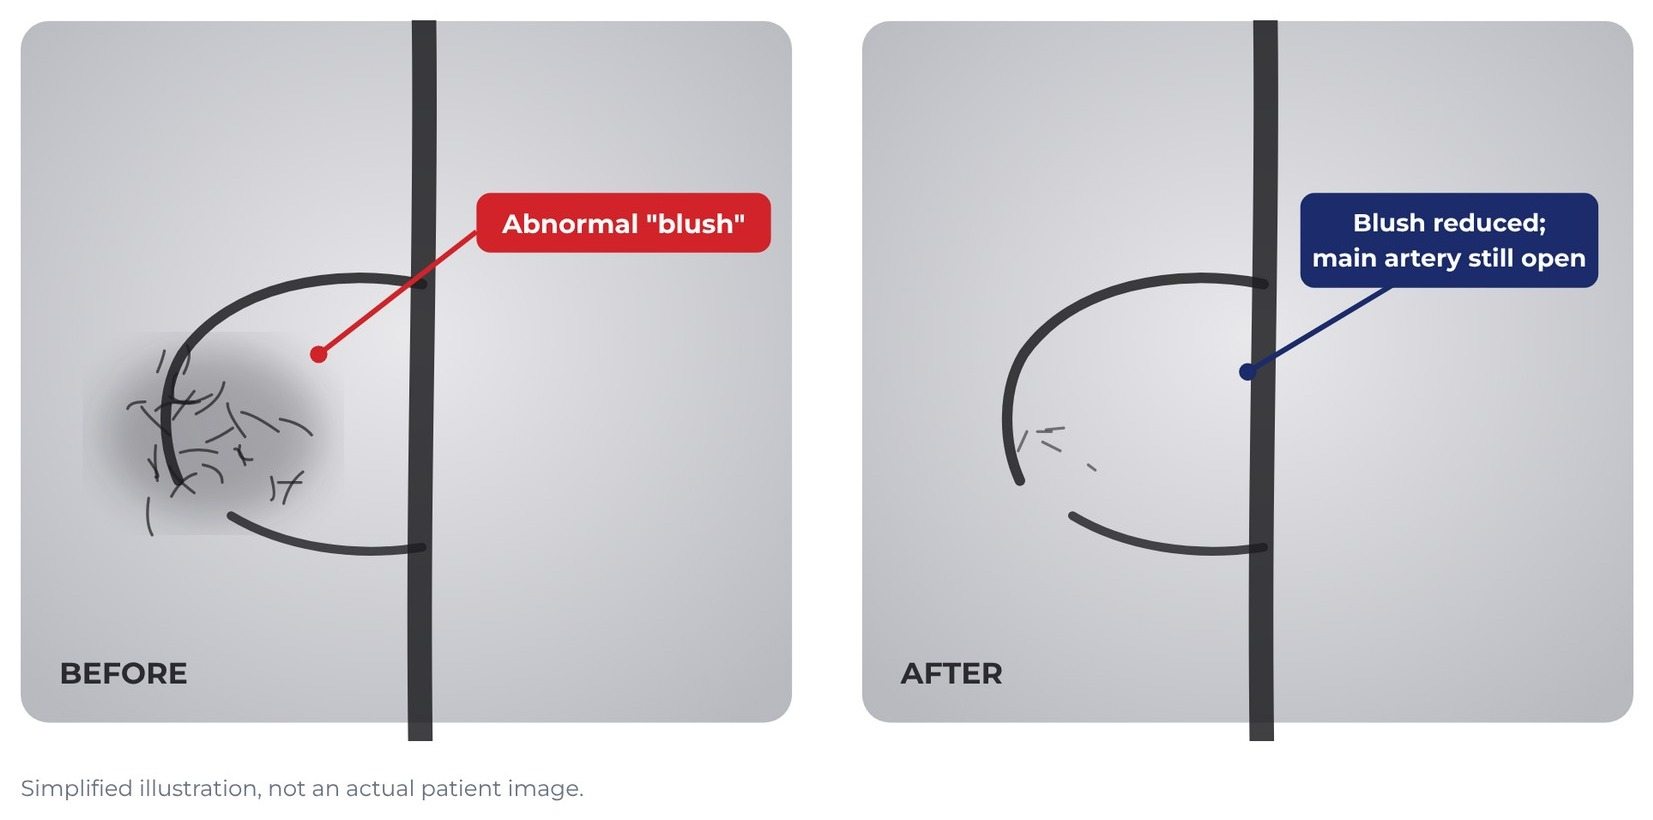
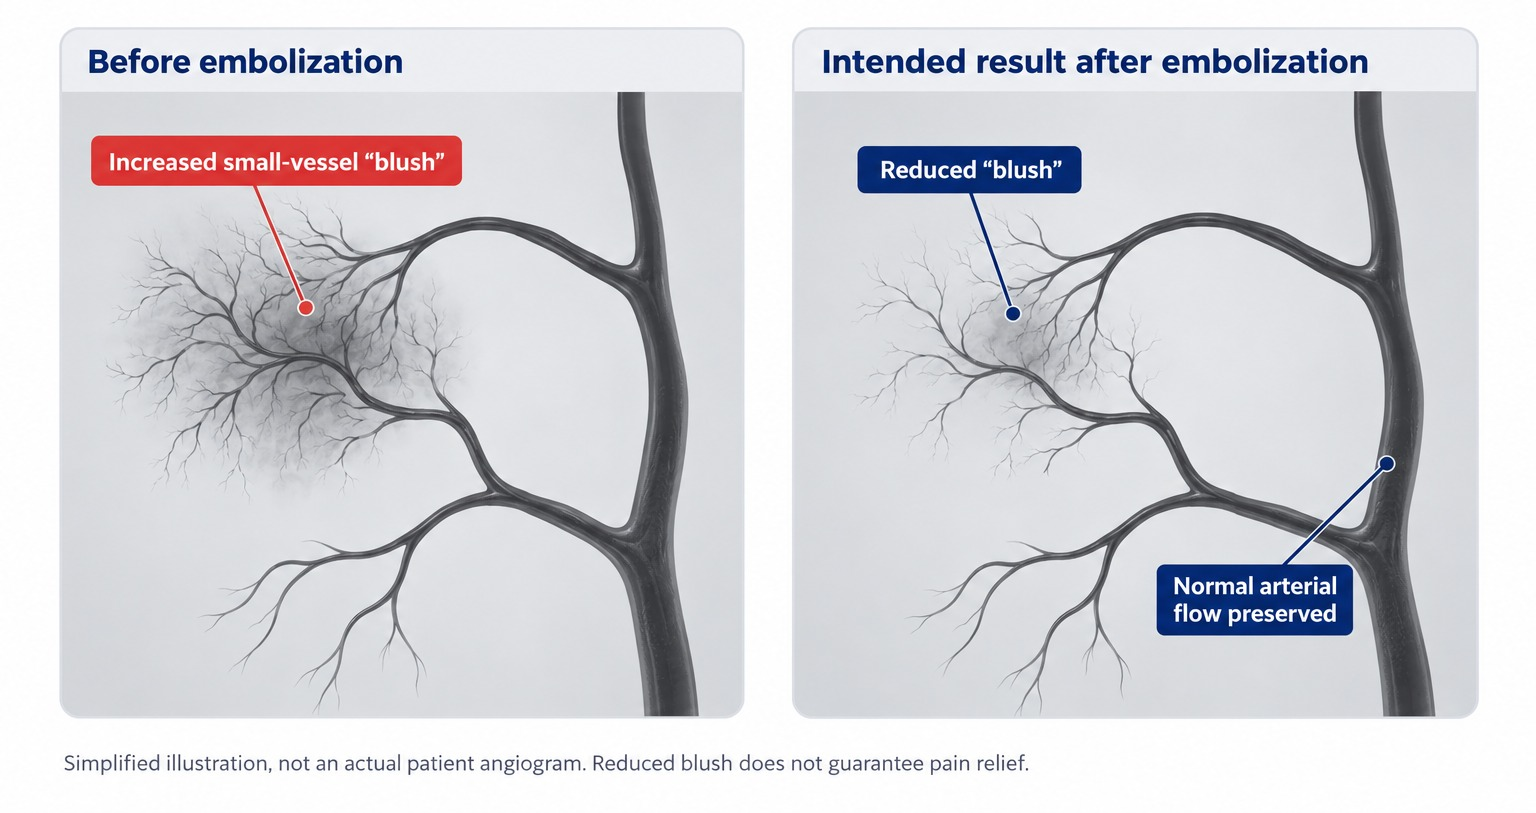
Flip J15a: new angiogram illustration; align talking point
Claude-Session: https://claude.ai/code/session_011FeJdRfmDCgTZcMtNMgwbg

diff --git a/js/templates.js b/js/templates.js
@@ -787,7 +787,7 @@ window.AJPVC_TEMPLATES = [
     "label": "J15a · What the Angiogram Shows (patient side)",
     "w": 1056,
     "h": 816,
-    "html": "<div style=\"width: 1056px; height: 816px; box-sizing: border-box; background: #FFFEFB; color: #1B2440; font-family: 'Public Sans', sans-serif; display: flex; flex-direction: column; padding: 34px 44px 26px; gap: 20px\">\n<div style=\"display: flex; justify-content: space-between; align-items: flex-end; gap: 24px; border-bottom: 5px solid #C8231E; padding-bottom: 14px\">\n<div style=\"display: flex; flex-direction: column; gap: 4px\"><p style=\"margin: 0; font-family: 'Montserrat', sans-serif; font-weight: 700; font-size: 15px; letter-spacing: 3px; text-transform: uppercase; color: #C8231E\">Joint pain</p>\n<h1 style=\"margin: 0; font-family: 'Montserrat', sans-serif; font-weight: 800; font-size: 44px; line-height: 1.05; color: #16306E\">What the Angiogram Shows</h1></div>\n<div style=\"display: flex; align-items: center; gap: 14px\"><img src=\"assets/logo-hvlc.png\" alt=\"Heart Vascular &amp; Leg Center logo\" style=\"height: 34px; width: 78px; object-fit: contain; object-position: left center\"><span style=\"width: 1px; height: 27px; background: #E2DED4\"></span><img src=\"assets/logo-long-nodivision.png\" alt=\"Advanced Joint Pain &amp; Vascular Center logo\" style=\"height: 34px; width: 129px; object-fit: contain; object-position: left center\"></div></div>\n<main style=\"flex: 1; min-height: 0; display: flex; flex-direction: column; gap: 16px\"><div style=\"flex: 1; min-height: 0; display: flex; flex-direction: column; gap: 10px\"><div style=\"flex: 1; min-height: 0; min-width: 0; background: #FFFFFF; border-radius: 18px; overflow: hidden; display: flex\"><img src=\"assets/book-angiogram.jpg\" alt=\"Side-by-side simplified X-ray drawings: before, a cloudy abnormal blush of small vessels beside a branch artery; after, the blush is reduced and the main artery is still open.\" style=\"width: 100%; height: 100%; object-fit: contain; object-position: 50% 50%; display: block\"></div></div><div style=\"display: flex; gap: 24px\"><div style=\"flex: 1; min-width: 0; display: flex; gap: 12px; align-items: flex-start; border-top: 4px solid #C8231E; padding-top: 12px\"><p style=\"margin: 0; font-size: 22px; line-height: 1.32; color: #1B2440\">Dye makes the knee arteries visible on X-ray.</p></div><div style=\"flex: 1; min-width: 0; display: flex; gap: 12px; align-items: flex-start; border-top: 4px solid #C8231E; padding-top: 12px\"><p style=\"margin: 0; font-size: 22px; line-height: 1.32; color: #1B2440\">Abnormal vessels show up as a cloudy “blush.”</p></div><div style=\"flex: 1; min-width: 0; display: flex; gap: 12px; align-items: flex-start; border-top: 4px solid #C8231E; padding-top: 12px\"><p style=\"margin: 0; font-size: 22px; line-height: 1.32; color: #1B2440\">After treatment the blush fades; main artery stays open.</p></div></div></main></div>"
+    "html": "<div style=\"width: 1056px; height: 816px; box-sizing: border-box; background: #FFFEFB; color: #1B2440; font-family: 'Public Sans', sans-serif; display: flex; flex-direction: column; padding: 34px 44px 26px; gap: 20px\">\n<div style=\"display: flex; justify-content: space-between; align-items: flex-end; gap: 24px; border-bottom: 5px solid #C8231E; padding-bottom: 14px\">\n<div style=\"display: flex; flex-direction: column; gap: 4px\"><p style=\"margin: 0; font-family: 'Montserrat', sans-serif; font-weight: 700; font-size: 15px; letter-spacing: 3px; text-transform: uppercase; color: #C8231E\">Joint pain</p>\n<h1 style=\"margin: 0; font-family: 'Montserrat', sans-serif; font-weight: 800; font-size: 44px; line-height: 1.05; color: #16306E\">What the Angiogram Shows</h1></div>\n<div style=\"display: flex; align-items: center; gap: 14px\"><img src=\"assets/logo-hvlc.png\" alt=\"Heart Vascular &amp; Leg Center logo\" style=\"height: 34px; width: 78px; object-fit: contain; object-position: left center\"><span style=\"width: 1px; height: 27px; background: #E2DED4\"></span><img src=\"assets/logo-long-nodivision.png\" alt=\"Advanced Joint Pain &amp; Vascular Center logo\" style=\"height: 34px; width: 129px; object-fit: contain; object-position: left center\"></div></div>\n<main style=\"flex: 1; min-height: 0; display: flex; flex-direction: column; gap: 16px\"><div style=\"flex: 1; min-height: 0; display: flex; flex-direction: column; gap: 10px\"><div style=\"flex: 1; min-height: 0; min-width: 0; background: #FFFFFF; border-radius: 18px; overflow: hidden; display: flex\"><img src=\"assets/book-angiogram.jpg\" alt=\"Two simplified angiogram drawings: before embolization, a cloudy small-vessel blush; the intended result after embolization, a reduced blush with normal flow preserved in the main artery\" style=\"width: 100%; height: 100%; object-fit: contain; object-position: 50% 50%; display: block\"></div></div><div style=\"display: flex; gap: 24px\"><div style=\"flex: 1; min-width: 0; display: flex; gap: 12px; align-items: flex-start; border-top: 4px solid #C8231E; padding-top: 12px\"><p style=\"margin: 0; font-size: 22px; line-height: 1.32; color: #1B2440\">Dye makes the knee arteries visible on X-ray.</p></div><div style=\"flex: 1; min-width: 0; display: flex; gap: 12px; align-items: flex-start; border-top: 4px solid #C8231E; padding-top: 12px\"><p style=\"margin: 0; font-size: 22px; line-height: 1.32; color: #1B2440\">Abnormal vessels show up as a cloudy “blush.”</p></div><div style=\"flex: 1; min-width: 0; display: flex; gap: 12px; align-items: flex-start; border-top: 4px solid #C8231E; padding-top: 12px\"><p style=\"margin: 0; font-size: 22px; line-height: 1.32; color: #1B2440\">The goal: less blush, with the main artery left open.</p></div></div></main></div>"
    },
    {
     "label": "J15b · What the Angiogram Shows (provider side)",

diff --git a/source/FlipJ15Angiogram.dc.html b/source/FlipJ15Angiogram.dc.html
@@ -18,7 +18,7 @@ body{margin:0}
 <div style="display: flex; flex-direction: column; gap: 4px"><p style="margin: 0; font-family: 'Montserrat', sans-serif; font-weight: 700; font-size: 15px; letter-spacing: 3px; text-transform: uppercase; color: #C8231E">Joint pain</p>
 <h1 style="margin: 0; font-family: 'Montserrat', sans-serif; font-weight: 800; font-size: 44px; line-height: 1.05; color: #16306E">What the Angiogram Shows</h1></div>
 <div style="display: flex; align-items: center; gap: 14px"><img src="/_blob/1e4ce51a5c3cb793b6317890e43e495e" alt="Heart Vascular &amp; Leg Center logo" style="height: 34px; width: 78px; object-fit: contain; object-position: left center"><span style="width: 1px; height: 27px; background: #E2DED4"></span><img src="/_blob/48c0202744b17fe1f033a36586de7a92" alt="Advanced Joint Pain &amp; Vascular Center logo" style="height: 34px; width: 129px; object-fit: contain; object-position: left center"></div></div>
-<main style="flex: 1; min-height: 0; display: flex; flex-direction: column; gap: 16px"><div style="flex: 1; min-height: 0; display: flex; flex-direction: column; gap: 10px"><div style="flex: 1; min-height: 0; min-width: 0; background: #FFFFFF; border-radius: 18px; overflow: hidden; display: flex"><img src="/_blob/5ae0c5e05f1ebb86b8f57816ecd38491" alt="Side-by-side simplified X-ray drawings: before, a cloudy abnormal blush of small vessels beside a branch artery; after, the blush is reduced and the main artery is still open." style="width: 100%; height: 100%; object-fit: contain; object-position: 50% 50%; display: block"></div></div><div style="display: flex; gap: 24px"><div style="flex: 1; min-width: 0; display: flex; gap: 12px; align-items: flex-start; border-top: 4px solid #C8231E; padding-top: 12px"><p style="margin: 0; font-size: 22px; line-height: 1.32; color: #1B2440">Dye makes the knee arteries visible on X-ray.</p></div><div style="flex: 1; min-width: 0; display: flex; gap: 12px; align-items: flex-start; border-top: 4px solid #C8231E; padding-top: 12px"><p style="margin: 0; font-size: 22px; line-height: 1.32; color: #1B2440">Abnormal vessels show up as a cloudy “blush.”</p></div><div style="flex: 1; min-width: 0; display: flex; gap: 12px; align-items: flex-start; border-top: 4px solid #C8231E; padding-top: 12px"><p style="margin: 0; font-size: 22px; line-height: 1.32; color: #1B2440">After treatment the blush fades; main artery stays open.</p></div></div></main></div>
+<main style="flex: 1; min-height: 0; display: flex; flex-direction: column; gap: 16px"><div style="flex: 1; min-height: 0; display: flex; flex-direction: column; gap: 10px"><div style="flex: 1; min-height: 0; min-width: 0; background: #FFFFFF; border-radius: 18px; overflow: hidden; display: flex"><img src="/_blob/11a0d8d2760311aaeb2aea2d821312d5" alt="Two simplified angiogram drawings: before embolization, a cloudy small-vessel blush; the intended result after embolization, a reduced blush with normal flow preserved in the main artery" style="width: 100%; height: 100%; object-fit: contain; object-position: 50% 50%; display: block"></div></div><div style="display: flex; gap: 24px"><div style="flex: 1; min-width: 0; display: flex; gap: 12px; align-items: flex-start; border-top: 4px solid #C8231E; padding-top: 12px"><p style="margin: 0; font-size: 22px; line-height: 1.32; color: #1B2440">Dye makes the knee arteries visible on X-ray.</p></div><div style="flex: 1; min-width: 0; display: flex; gap: 12px; align-items: flex-start; border-top: 4px solid #C8231E; padding-top: 12px"><p style="margin: 0; font-size: 22px; line-height: 1.32; color: #1B2440">Abnormal vessels show up as a cloudy “blush.”</p></div><div style="flex: 1; min-width: 0; display: flex; gap: 12px; align-items: flex-start; border-top: 4px solid #C8231E; padding-top: 12px"><p style="margin: 0; font-size: 22px; line-height: 1.32; color: #1B2440">The goal: less blush, with the main artery left open.</p></div></div></main></div>
 </x-dc>
 <script type="text/x-dc" data-dc-script data-props='{"$preview":{"width":1056,"height":816}}'>
 class Component extends DCLogic {
